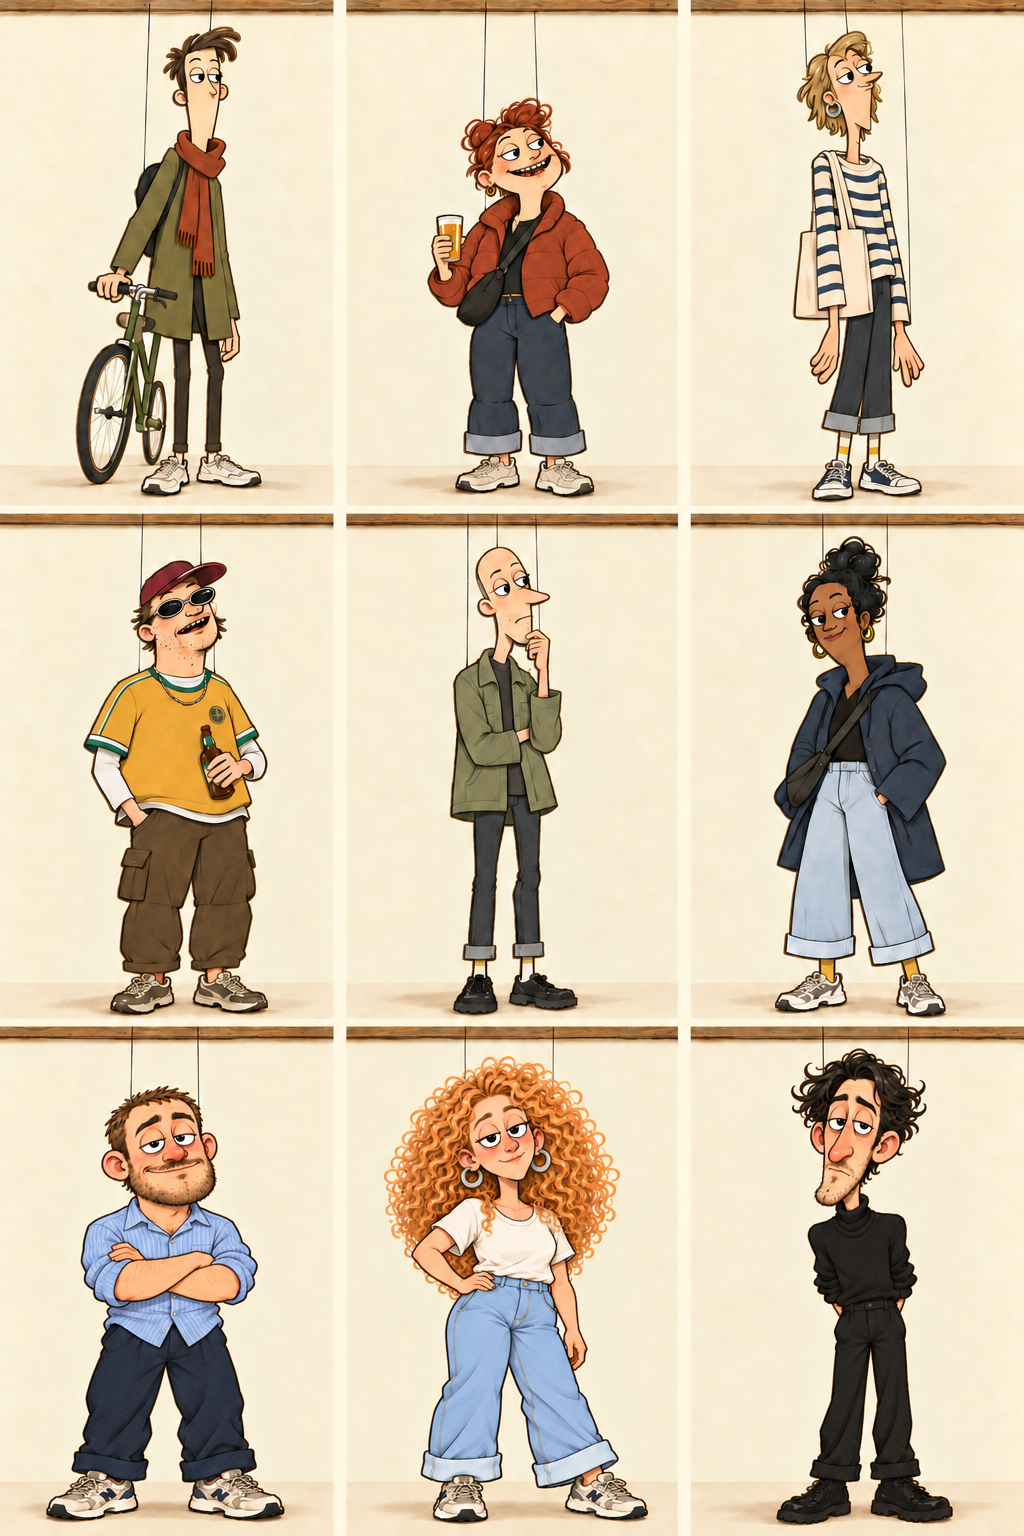
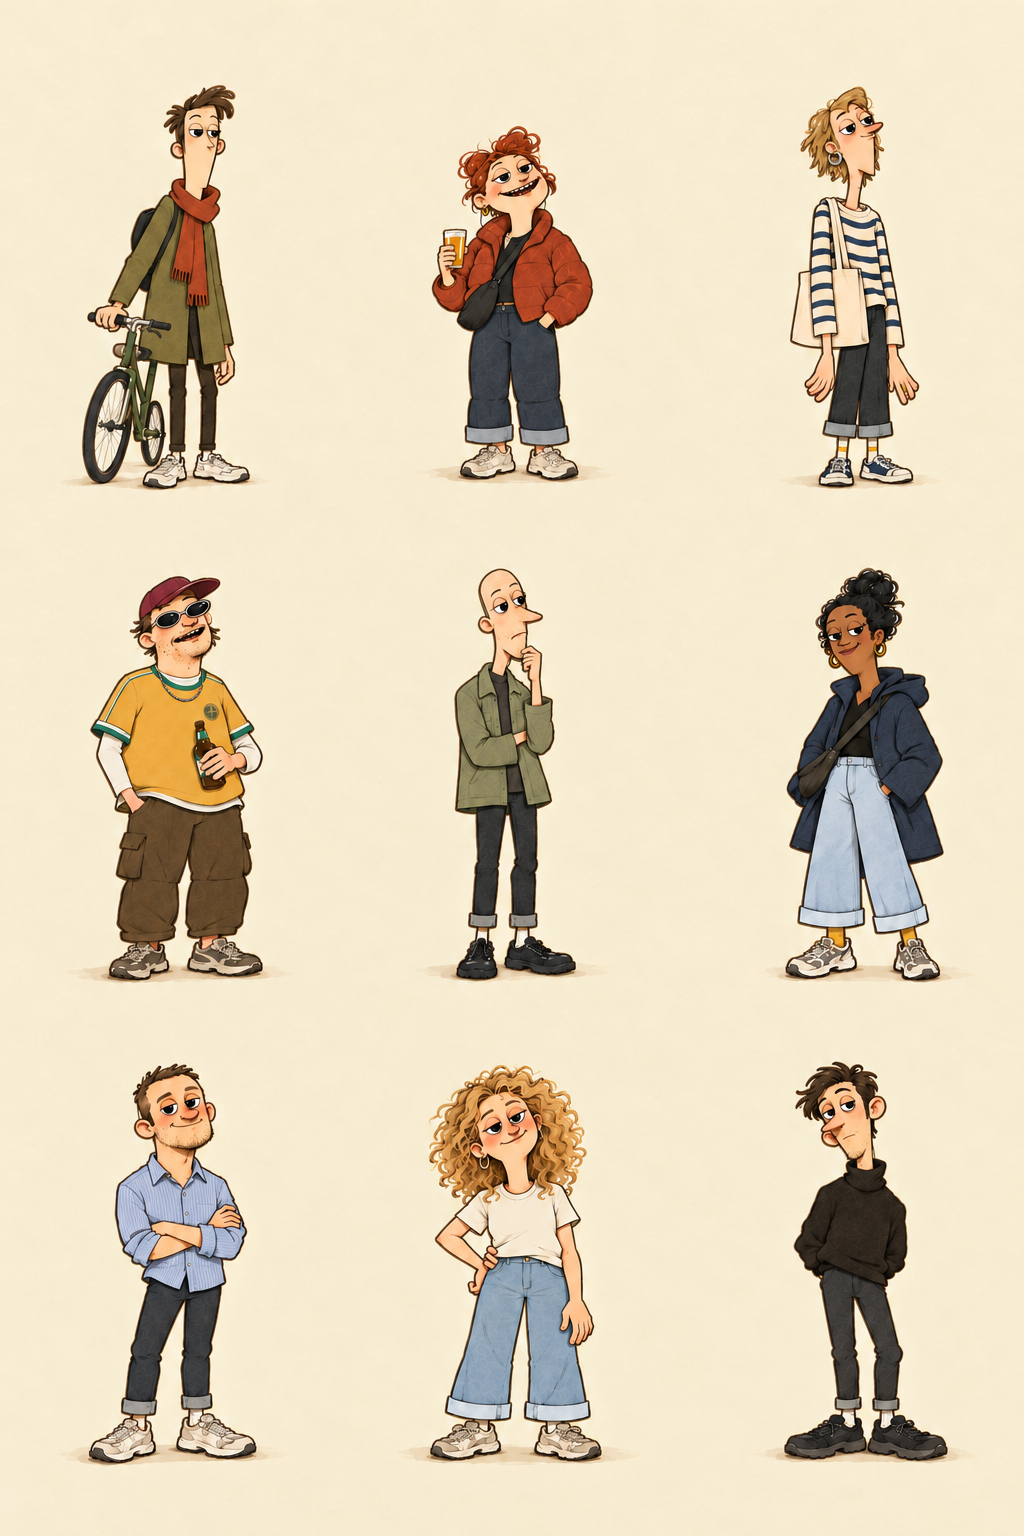
Redraw SunSpot trio in flat paper style and rebuild nine-character atlas

Changed region(s): [[0.0, 0.0, 1.0, 1.0]]

diff --git a/docs/visual-identity.md b/docs/visual-identity.md
@@ -31,9 +31,11 @@ The five scenes are:
 4. Friends chasing the sun between Copenhagen buildings.
 5. A gathering outside a bar during Golden Hour.
 
-The original six-person cast is joined by three portrait-inspired caricatures in `sunspot-friends-trio.png`: a broad man with a large head, small nose and short beard in a blue striped shirt, a shorter, slightly fuller strawberry-blonde curly-haired woman in a white T-shirt and an angular dark-haired man with a short beard in a black turtleneck. Exaggerated silhouettes, distinctive noses and imperfect faces match the absurd proportions of the first six. The three new characters appear as independent solo portraits looking toward the viewer, with closed mouths and restrained, wry expressions rather than broad grins. The blue-shirt character has a broad, square face, short nose and folded arms; the curly-haired character rests one hand on her hip; the black-turtleneck character has a long, angular face, longer nose and hands behind his back. Their silhouettes and poses stay distinct. All characters retain heavy eyelids with medium, clearly visible pupils, between large irises and tiny dots.
+The original six-person cast is joined by three portrait-inspired caricatures in `sunspot-friends-trio.png`: a broad man with a round face, very small nose and short brown beard in a blue striped shirt, a shorter, slightly fuller strawberry-blonde curly-haired woman in a white T-shirt and wide light jeans, and an angular dark-haired man with light stubble in a black turtleneck. These three were drawn afresh from the original private person photos, using only `sunspot-cast.png` as the style reference; previous trio drawings and the previous gallery's bottom row were excluded. Reference photos are never copied into the repository.
 
-All eight PNG assets are in `public/illustrations`, including the complete nine-person cast sheet `sunspot-complete-cast.png`. Its equal three-by-three cells supply nine individually labelled cards in one gallery, with two columns on mobile and three on desktop. Static imports give the artwork content-hashed URLs and native blur previews. Images are served through Next.js optimization at responsive sizes; scenes load individually when opened. Full-size source artwork is not downloaded as an initial bundle.
+Flat paper colors, uneven brown-black contours, tilted heads, awkward body axes and oversized hands and shoes keep the trio within the original cast's graphic style. Paper grain alone does not establish a style match: avoid neat symmetric cartoon anatomy as well as modeled skin, portrait lighting and polished digital faces. Each new character looks toward the viewer, with a closed mouth and a restrained, wry expression. The blue-shirt character folds his arms; the curly-haired character rests one hand on her hip; the black-turtleneck character has a long, angular face, longer nose and hands behind his back. Their silhouettes and poses stay distinct, with slightly slimmer bodies on the two left characters. All characters retain heavy eyelids with medium, clearly visible pupils, between large irises and tiny dots.
+
+All eight PNG assets are in `public/illustrations`, including the complete 1024×1536 nine-person cast sheet `sunspot-complete-cast.png`. Its equal three-by-three cells supply nine individually labelled cards in one gallery, with two columns on mobile and three on desktop. The artwork has no drawn separators; the UI supplies exact cell borders. Keep each entire figure and both shoes inside its cell with clear padding. Visually assess the artwork against the original six before integration; browser checks verify column counts, atlas proportions and cell positions, but cannot judge the drawing style. Static imports give the artwork content-hashed URLs and native blur previews. Images are served through Next.js optimization at responsive sizes; scenes load individually when opened. Full-size source artwork is not downloaded as an initial bundle.
 
 ## Interaction and data honesty
 
